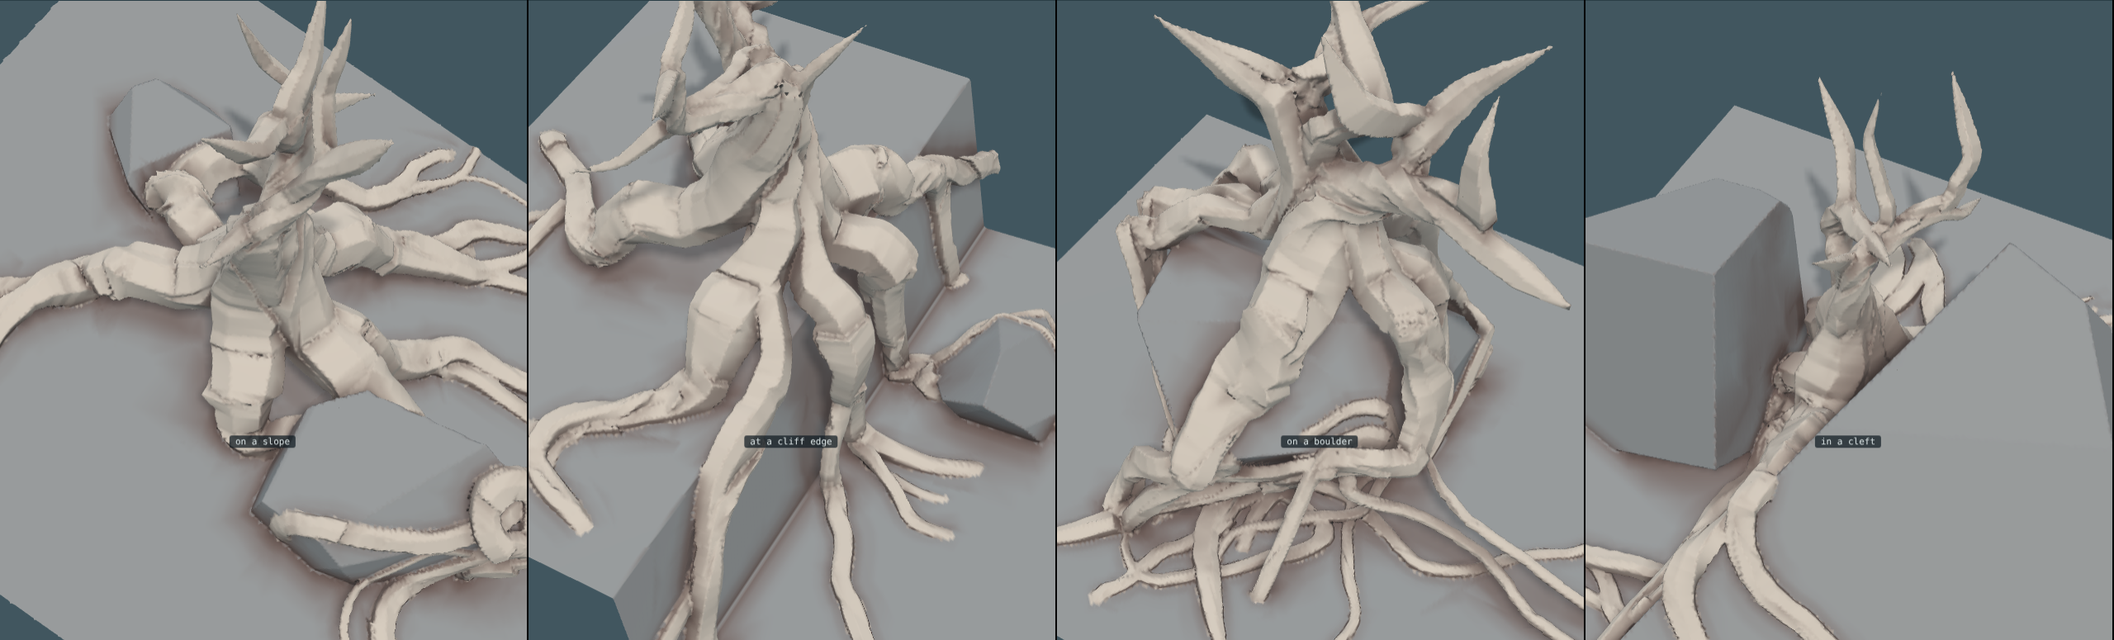
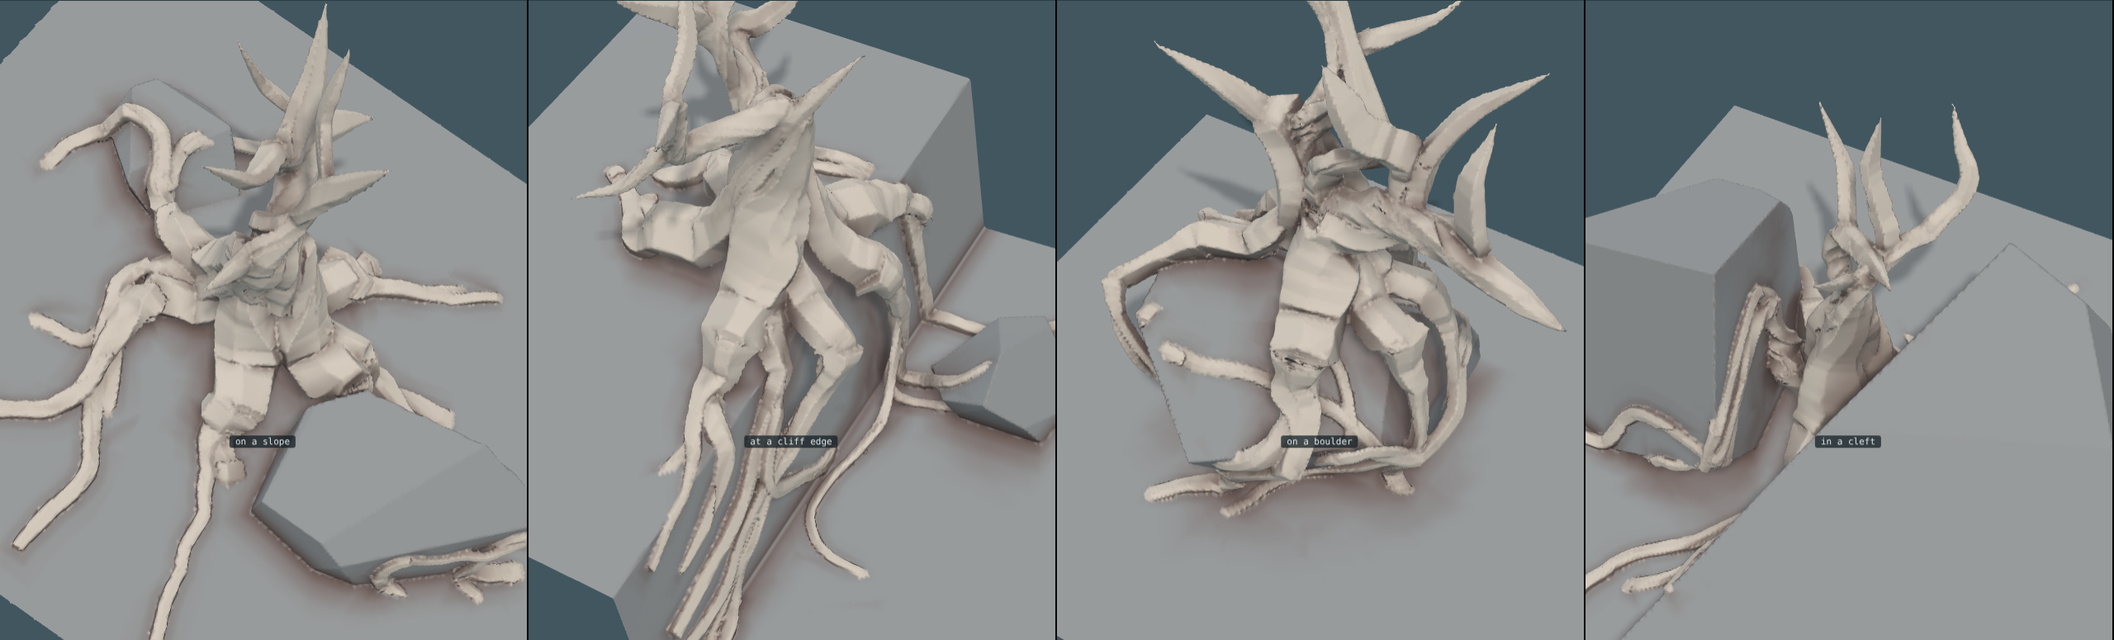
Run 021: the drawn wood made to add up at the foot; roots come down within a real distance, the trunk reaches the ground, and only a share of what it carries shows as surface root
Claude-Session: https://claude.ai/code/session_0192rgp75jGkttZXf7hEakip

Changed region(s): [[0.0, 0.0, 0.9375, 1.0], [0.0, 0.7742, 0.0312, 0.8671]]

diff --git a/trees.js b/trees.js
@@ -30,15 +30,17 @@
   function frames(P) { let N = null; return P.map((p, i) => { const T = unit([0, 1, 2].map((k) => P[Math.min(P.length - 1, i + 1)][k] - P[Math.max(0, i - 1)][k])); N = unit((N || [1, 0, 0.2]).map((v, k, A) => v - T[k] * dot(A, T))); return [T, N, cross(T, N)]; }); }
 
   function grow(recipe) {
-    const P = Object.assign({ strands: 8, fill: 0.75, uneven: 0.5, twist: 0.5, taut: 0.3, stiff: 0.05, hug: 0.15, bind: 0.004, roots: 0.6, wind: 1.1, mixed: false, lmax: 0, set: 0, swell: 1, feet: 0, lap: 0, ground: null, down: 0.6, crease: 0.5, snake: 1, air: 0.5, reach: 0.6, forks: 1, clear: 1, settle: 0, giving: 0.75, passes: 1500, ds: 0.035, seed: 1, trunk: [[0, 0.14, 0, 0.27], [0, 1.6, 0, 0.1]], limbs: [], orb: null }, recipe);
+    const P = Object.assign({ strands: 8, fill: 0.75, uneven: 0.5, twist: 0.5, taut: 0.3, stiff: 0.05, hug: 0.15, bind: 0.004, roots: 0.6, wind: 1.1, mixed: false, lmax: 0, set: 0, swell: 1, feet: 0, lap: 0, ground: null, down: 0.6, crease: 0.5, snake: 1, air: 0.18, reach: 0.6, forks: 1, dive: 0.12, grip: 0.62, clear: 1, settle: 0, giving: 0.75, passes: 1500, ds: 0.035, seed: 1, trunk: [[0, 0.14, 0, 0.27], [0, 1.6, 0, 0.1]], limbs: [], orb: null }, recipe);
     // The ground, if the tree is given one: any function of a place that is how far it is outside the ground (less than
     // nothing inside). Without one the ground is the level at height 0, as it always was. (A grown tree is always given one, level if nothing else, so that its roots are walked.)
     const G = P.ground, gradG = G ? (x, y, z) => { const e = 0.008; return unit([G(x + e, y, z) - G(x - e, y, z), G(x, y + e, z) - G(x, y - e, z), G(x, y, z + e) - G(x, y, z - e)]); } : null, rootPts = [];
     const r = rng(P.seed), n = P.strands, ds = P.ds, trunk = line(P.trunk, ds), nT = trunk.length, R0 = trunk[0][3], rho0 = R0 * Math.sqrt(P.fill / n), turn = (i) => P.twist * TAU * i / nT;
     // A root on ground. It is not laid, it is walked: from where it starts it goes out a step at a time over the
     // surface, and what it does on the way is the ground's doing as much as its own.
-    //   It comes down to the ground at once, within a fifth of its length, and then lies in it: a little sunk, more
-    //   in places and less in others, kept that height off the surface whatever the surface does. So it goes over
+    //   It comes down to the ground at once, within `dive` of where it starts (a short real distance, not a share of
+    //   its length: paced by its length a long root slides down a shallow ramp and holds the trunk up on legs), and
+    //   then lies in it: a little sunk, more in places and less in others, kept that height off the surface
+    //   whatever the surface does. So it goes over
     //   an edge and down a face and never through a corner or clear of the ground.
     //   It flows. Its heading has a curl that drifts and carries on, so it winds, and can come round on itself,
     //   never tighter than a couple of its own girths. And at each step, of three ways (on, a little left, a
@@ -46,15 +48,18 @@
     //   It may let go. Where the ground falls away in front of it, it tries leaving the surface: out and a little
     //   up, sagging as it goes. If that comes down on ground again within reach it goes that way, through the air,
     //   and takes hold where it lands. If not, it stays on the surface.
-    //   It keeps its girth. It does not fine down along its length (it divides instead, below); only a root that
-    //   does not go into the ground at its end runs out to a point there.
+    //   It keeps its girth along its length: it gets finer by dividing, not by tapering. But not all of what the
+    //   trunk carries comes out where it can be seen. Only `grip` of a strand's girth leaves as a surface root;
+    //   the rest goes straight down at the foot and is never drawn. So a root narrows from the trunk's own girth
+    //   to that over the first short stretch, which is the collar, and all the roots together are then well under
+    //   the trunk's section, as they must be. Only a root that does not go into the ground runs out to a point.
     // Going down a face or through the air counts little toward its length, so a root that leaves the level it
     // began on runs on until it has ground under it again.
-    const walk = G ? (p0, away, rho0, len, dives) => { const rx = [], rr = [], c0 = G(p0[0], p0[1], p0[2]), most = Math.round(len / ds) * 5, kmax = ds / (2.6 * Math.max(0.025, rho0)), wob = TAU * r(), wl = 0.25 + 0.3 * r();
+    const walk = G ? (p0, away, rho0, len, dives, collar) => { const rx = [], rr = [], c0 = G(p0[0], p0[1], p0[2]), most = Math.round(len / ds) * 5, kmax = ds / (2.6 * Math.max(0.025, rho0)), wob = TAU * r(), wl = 0.25 + 0.3 * r();
       let pos = p0, h = away, prog = 0, curl = 0, air = 0, gone = 0;
-      const girth = (g) => rho0 * (0.74 + 0.26 * (1 - g)) * (dives ? 1 : Math.pow(Math.min(1, (1 - g) / 0.22), 0.7) * 0.9 + 0.1);
+      const girth = (g, far) => rho0 * (collar ? P.grip + (1 - P.grip) * Math.pow(Math.max(0, 1 - far / (2 * P.dive)), 1.5) : 1) * (dives ? 1 : Math.pow(Math.min(1, (1 - g) / 0.22), 0.7) * 0.9 + 0.1);
       const room = (pr, own) => { if (Math.abs(pr[0]) > 0.97 || Math.abs(pr[2]) > 0.97) return 0; let near = 0.22; for (const q of rootPts) near = Math.min(near, H(pr[0] - q[0], pr[1] - q[1], pr[2] - q[2])); for (let e = 0; e < own; e++) near = Math.min(near, H(pr[0] - rx[e][0], pr[1] - rx[e][1], pr[2] - rx[e][2])); return near; };
-      for (let m = 1; m <= most && prog < len; m++) { const g = Math.min(1, prog / len), rad = girth(g), nn = gradG(pos[0], pos[1], pos[2]), hug = rad * (0.4 + 0.22 * Math.sin(wob + TAU * gone / wl)), want = c0 + (hug - c0) * sstep(0, 0.2, g) - (dives ? 0.3 * sstep(0.72, 1, g) : 0);
+      for (let m = 1; m <= most && prog < len; m++) { const g = Math.min(1, prog / len), rad = girth(g, gone), nn = gradG(pos[0], pos[1], pos[2]), hug = rad * (0.4 + 0.22 * Math.sin(wob + TAU * gone / wl)), want = c0 + (hug - c0) * sstep(0, P.dive, gone) - (dives ? 0.3 * sstep(0.72, 1, g) : 0);
         let tt = h.map((v, k) => v - nn[k] * dot(h, nn)); const dn = UP.map((v, k) => -(v - nn[k] * nn[1])), dl = H(dn[0], dn[1], dn[2]); if (H(tt[0], tt[1], tt[2]) < 0.2) tt = dl > 1e-6 ? dn : cross(nn, [1, 0, 0]); tt = unit(tt);
         curl = Math.max(-kmax, Math.min(kmax, curl * 0.9 + P.snake * 0.34 * kmax * (2 * r() - 1))); { const sd = cross(nn, tt); tt = unit(tt.map((v, k) => v * Math.cos(curl) + sd[k] * Math.sin(curl))); }
         const side = cross(nn, tt), out = unit([pos[0] - trunk[0][0], 0, pos[2] - trunk[0][2]]); let best = null;   // (out: away from the foot. A root goes somewhere; it does not come back under the tree.)
@@ -65,10 +70,11 @@
         if (may) for (const lift of [0.5, 0.2, 0.9]) { const d = unit(h.map((v, k) => v + nn[k] * lift)), pts = []; let ok = false;
           for (let t = ds; t < P.reach; t += ds) { const q = [pos[0] + d[0] * t, pos[1] + d[1] * t - 0.55 * t * t, pos[2] + d[2] * t], gq = G(q[0], q[1], q[2]); pts.push(q); if (t > 0.16 && gq <= rad * 0.6) { ok = true; break; } if ((t > 0.07 && gq < rad * 0.9 && t <= 0.16) || Math.abs(q[0]) > 1 || Math.abs(q[2]) > 1 || q[1] < -0.05) break; }
           if (!ok || pts.length < 5 || room(pts[pts.length - 1], rx.length - 12) < 0.07) continue;
-          for (const q of pts) { rx.push(q); rr.push(girth(Math.min(1, prog / len))); prog += ds * 0.3; gone += ds; } air++; flew = true;
+          for (const q of pts) { rx.push(q); rr.push(girth(Math.min(1, prog / len), gone)); prog += ds * 0.3; gone += ds; } air++; flew = true;
           const e = pts.length - 1; h = unit(pts[e].map((v, k) => v - pts[e - 1][k])); pos = pts[e]; break; }
         if (flew) continue;
         for (let it = 0; it < 3; it++) { const gn = gradG(nx[0], nx[1], nx[2]), gv = G(nx[0], nx[1], nx[2]); nx = nx.map((v, k) => v + gn[k] * (want - gv)); }
+        if (Math.abs(nx[0]) > 0.92 || Math.abs(nx[2]) > 0.92) break;   // a root stays on the ground it was given
         const steep = Math.abs(gradG(nx[0], nx[1], nx[2])[1]) < 0.6; prog += ds * (steep ? 0.3 : 1); gone += ds; pos = nx; rx.push(nx); rr.push(rad); }
       return { rx, rr }; } : null;
     // every strand has a place in the bundle's section, and a girth of its own (mixed: most thin, a few heavy)
@@ -120,7 +126,7 @@
       if (!G) {
         for (let m = 1; m <= Kr; m++) { const g = m / Kr, t = bend * g * g, dir = [away[0] * Math.cos(t) - away[2] * Math.sin(t), 0, away[0] * Math.sin(t) + away[2] * Math.cos(t)], rad = rho[0] * (dives ? 0.5 + 0.5 * (1 - g) : 0.2 + 0.8 * Math.pow(1 - g, 0.8));
           q = [q[0] + dir[0] * ds, p0[1] + (rad * 0.6 - p0[1]) * sstep(0, 0.8, g) - (dives ? 0.35 * sstep(0.6, 1, g) : 0), q[2] + dir[2] * ds]; rx.push(q); rr.push(rad); rg.push(q); }
-      } else { const w = walk(p0, away, rho[0], len, dives); for (let e = 0; e < w.rx.length; e++) { rx.push(w.rx[e]); rg.push(w.rx[e]); rr.push(w.rr[e]); rootPts.push(w.rx[e]); } Kr = rx.length; }
+      } else { const w = walk(p0, away, rho[0], len, dives, 1); for (let e = 0; e < w.rx.length; e++) { rx.push(w.rx[e]); rg.push(w.rx[e]); rr.push(w.rr[e]); rootPts.push(w.rx[e]); } Kr = rx.length; }
       s.root = Kr; s.K = Kr + X.length; const all = rx.reverse().concat(X), goals = rg.reverse().concat(goal);
       s.X = Float64Array.from(all.flat()); s.goal = Float64Array.from(goals.flat()); s.rho = Float64Array.from(rr.reverse().concat(rho)); s.hold = Float64Array.from(Array.from({ length: Kr }, (_, k) => (k < Kr * 0.45 ? 0.2 : 0)).concat(hold));   // anchored at the far end of its root, and nowhere else
       s.limbAt = fi; s.bend = P.stiff * Math.min(1.6, s.fat * s.fat);
@@ -151,7 +157,8 @@
     if (G && P.forks) { const part = (pi, depth) => { const par = S[pi], n = depth ? (r() < 0.35 * P.forks ? 1 : 0) : 1 + (r() < 0.45 * P.forks ? 1 : 0); let u = 0.15 + 0.2 * r();
         for (let e = 0; e < n; e++, u += 0.22 + 0.2 * r()) { if (u > 0.75) break; const k = Math.round((1 - u) * par.root); if (k < 8 || k > par.root - 2) continue;
           const pos = [par.X[k * 3], par.X[k * 3 + 1], par.X[k * 3 + 2]], d = unit([par.X[(k - 2) * 3] - pos[0], par.X[(k - 2) * 3 + 1] - pos[1], par.X[(k - 2) * 3 + 2] - pos[2]]), nn = gradG(pos[0], pos[1], pos[2]), sd = cross(nn, d), a = (r() < 0.5 ? -1 : 1) * (0.4 + 0.4 * r());
-          const dir = unit(d.map((v, c) => v * Math.cos(a) + sd[c] * Math.sin(a))), share = 0.3 + 0.22 * r(), rb = par.rho[k] * Math.sqrt(share), w = walk(pos, dir, rb, Math.max(0.25, k * ds * (0.7 + 0.6 * r())), r() < 0.75); if (w.rx.length < 6) continue;
+          const dir = unit(d.map((v, c) => v * Math.cos(a) + sd[c] * Math.sin(a))), share = 0.34 + 0.24 * r(), rb = par.rho[k] * Math.sqrt(share);
+          if (rb < 0.012) continue; const w = walk(pos, dir, rb, Math.max(0.2, k * ds * (0.3 + 0.3 * r())), r() < 0.75, 0); if (w.rx.length < 6) continue;   // (a part of a root runs a good deal shorter than what is left of the root it came off)
           for (let j = 0; j < k; j++) par.rho[j] *= 1 + (Math.sqrt(1 - share) - 1) * sstep(k, k - 4, j);
           const pts = w.rx.slice().reverse().concat([pos]), K = pts.length, X = Float64Array.from(pts.flat()); for (const q of w.rx) rootPts.push(q);
           S.push({ X, goal: Float64Array.from(X), rho: Float64Array.from(w.rr.slice().reverse().concat([rb])), hold: Float64Array.from({ length: K }, (_, j) => (j < K * 0.45 ? 0.2 : 0)), root: K, K, limb: -1, limbAt: -1, a: par.a, b: par.b, fat: par.fat * Math.sqrt(share), bend: Math.min(par.bend, 0.055), give: 1, snapped: false, rootOf: pi, po: k });
@@ -393,8 +400,8 @@
       tips++; return { path: pts, limbs: kids, total: gone };
     };
     // where it stands: on level ground at the middle, or at its `site` on the ground it is given, starting a little way out of the slope
-    const R0 = Q.foot; let p0 = [0, 0.22, 0], lean = [0, 0, 0];
-    if (Gq) { let y = 1.95; while (y > -0.05 && Gq(Q.site[0], y, Q.site[1]) > 0) y -= 0.01; const e = 0.01, gn = unit([Gq(Q.site[0] + e, y, Q.site[1]) - Gq(Q.site[0] - e, y, Q.site[1]), Gq(Q.site[0], y + e, Q.site[1]) - Gq(Q.site[0], y - e, Q.site[1]), Gq(Q.site[0], y, Q.site[1] + e) - Gq(Q.site[0], y, Q.site[1] - e)]); p0 = [Q.site[0], y + 0.22 * R0 / 0.2, Q.site[1]]; lean = [0.5 * gn[0], 0, 0.5 * gn[2]]; }
+    const R0 = Q.foot; let p0 = [0, 0.6 * R0, 0], lean = [0, 0, 0];
+    if (Gq) { let y = 1.95; while (y > -0.05 && Gq(Q.site[0], y, Q.site[1]) > 0) y -= 0.01; const e = 0.01, gn = unit([Gq(Q.site[0] + e, y, Q.site[1]) - Gq(Q.site[0] - e, y, Q.site[1]), Gq(Q.site[0], y + e, Q.site[1]) - Gq(Q.site[0], y - e, Q.site[1]), Gq(Q.site[0], y, Q.site[1] + e) - Gq(Q.site[0], y, Q.site[1] - e)]); p0 = [Q.site[0], y + 0.6 * R0, Q.site[1]]; lean = [0.5 * gn[0], 0, 0.5 * gn[2]]; }
     const d0 = unit([lean[0] + 0.25 * (r() - 0.5), 1, lean[2] + 0.25 * (r() - 0.5)]), top = shoot(p0, d0, n, Q.tall, 0, true);
     const tidy = (sh, par) => sh.limbs.map((k) => { const o = { at: Math.min(0.97, k.s / sh.total), count: k.count, path: k.path, from: k.from, dir: k.dir, s: k.s, host: sh, par, own: k, depth: par ? par.depth + 1 : 1 }; o.limbs = tidy(k, o); return o; });
     // Snapping. `snap` of the side shoots break off close to where they left: ones carrying at least `least` strands and

diff --git a/runs/021-girth/draw.js b/runs/021-girth/draw.js
@@ -1,0 +1,41 @@
+// Does the wood add up? Two cuts of the same tree, to scale: the trunk where it is thickest, and the roots where
+// they leave the foot. (A root that parted off another is inside its parent's girth already and is not counted
+// again; it is drawn hollow where it parts, to show where that wood goes.) The red ring is the same area as one
+// disc, so the two can be told apart by eye. Under them, how much root crosses a ring at each distance out.
+//   node runs/021-girth/draw.js out.svg '[{"label": "...", "rule": {...}, "grow": {...}}, ...]'
+const fs = require('fs'), Trees = require('../../trees.js'), H = Math.hypot, PI = Math.PI;
+const [out, list] = process.argv.slice(2), cols = JSON.parse(list), W = 300, sc = 250, ink = '#3b3230';
+let svg = ''; const notes = [];
+cols.forEach((col, ci) => {
+  const g = Trees.sprout(col.rule), t = Trees.grow(Object.assign({ seed: col.rule.seed || 1 }, g, col.grow || {})), x0 = ci * W + W / 2;
+  let best = 0, bestY = 0;
+  for (let y = 0.2; y < 1.1; y += 0.02) { let a = 0;
+    for (const s of t.strands) { if (s.rootOf >= 0) continue; for (let k = s.root; k < s.K - 1; k++) if ((s.X[k * 3 + 1] - y) * (s.X[k * 3 + 4] - y) <= 0) a += PI * s.rho[k] ** 2; }
+    if (a > best) { best = a; bestY = y; } }
+  const disc = (cx, cy, r, fill, st) => `<circle cx="${cx.toFixed(1)}" cy="${cy.toFixed(1)}" r="${(r * sc).toFixed(1)}" fill="${fill}" stroke="${st || ink}" stroke-width="0.7"/>`;
+  let o = '', trunkA = 0, rootA = 0, nP = 0, nF = 0;
+  for (const s of t.strands) { if (s.rootOf >= 0) continue;
+    for (let k = s.root; k < s.K - 1; k++) if ((s.X[k * 3 + 1] - bestY) * (s.X[k * 3 + 4] - bestY) <= 0) { trunkA += PI * s.rho[k] ** 2; o += disc(x0 + s.X[k * 3] * sc, 130 + s.X[k * 3 + 2] * sc, s.rho[k], '#cdbfae'); } }
+  for (const s of t.strands) { if (!s.root) continue; const k = s.rootOf >= 0 ? s.K - 1 : s.root - 1;
+    if (s.rootOf >= 0) { nF++; o += disc(x0 + s.X[k * 3] * sc, 350 + s.X[k * 3 + 2] * sc, s.rho[k], 'none', '#b98f6e'); }
+    else { nP++; rootA += PI * s.rho[k] ** 2; o += disc(x0 + s.X[k * 3] * sc, 350 + s.X[k * 3 + 2] * sc, s.rho[k], '#b98f6e'); } }
+  for (const [cy, a] of [[130, trunkA], [350, rootA]]) o += `<circle cx="${x0 + 108}" cy="${cy}" r="${(Math.sqrt(a / PI) * sc).toFixed(1)}" fill="none" stroke="#c0392b" stroke-width="1.6"/>`;
+  const ring = [];
+  for (let R = 0.1; R <= 0.8; R += 0.05) { let a = 0;
+    for (const s of t.strands) { const top = (s.rootOf >= 0 ? s.K : s.root) - 1;
+      for (let k = 0; k < top; k++) { const r0 = H(s.X[k * 3], s.X[k * 3 + 2]), r1 = H(s.X[k * 3 + 3], s.X[k * 3 + 5]); if ((r0 - R) * (r1 - R) > 0) continue;
+        a += PI * s.rho[k] ** 2 * Math.min(1, Math.abs(r1 - r0) / (H(s.X[k * 3 + 3] - s.X[k * 3], s.X[k * 3 + 4] - s.X[k * 3 + 1], s.X[k * 3 + 5] - s.X[k * 3 + 2]) || 1e-9)); } }
+    ring.push([R, a / trunkA]); }
+  const gx = (i) => x0 - 120 + i * 240 / (ring.length - 1), gy = (v) => 560 - Math.min(1.2, v) * 110;
+  o += `<line x1="${x0 - 120}" y1="${gy(1)}" x2="${x0 + 120}" y2="${gy(1)}" stroke="#c0392b" stroke-width="1"/>`;
+  o += `<polyline fill="none" stroke="${ink}" stroke-width="1.6" points="${ring.map((q, i) => gx(i).toFixed(1) + ',' + gy(q[1]).toFixed(1)).join(' ')}"/>`;
+  const peak = Math.max(...ring.map((q) => q[1]));
+  svg += o + `<text x="${x0}" y="20" text-anchor="middle" font-size="13" fill="${ink}">${col.label}</text>`
+    + `<text x="${x0}" y="236" text-anchor="middle" font-size="11" fill="${ink}">trunk at its thickest (y=${bestY.toFixed(2)})</text>`
+    + `<text x="${x0}" y="456" text-anchor="middle" font-size="11" fill="${ink}">${nP} roots at the foot: ${(rootA / trunkA).toFixed(2)}x the trunk</text>`
+    + `<text x="${x0}" y="474" text-anchor="middle" font-size="11" fill="${ink}">(+${nF} that part off them, hollow)</text>`
+    + `<text x="${x0}" y="590" text-anchor="middle" font-size="11" fill="${ink}">crossing a ring 0.1 to 0.8 out: at most ${peak.toFixed(2)}x</text>`;
+  notes.push(`${col.label}: trunk ${trunkA.toFixed(4)} at y=${bestY.toFixed(2)}; ${nP} roots at the foot ${rootA.toFixed(4)} = ${(rootA / trunkA).toFixed(2)}x, parting into ${nF} more; most crossing a ring ${peak.toFixed(2)}x`);
+});
+fs.writeFileSync(out, `<svg xmlns="http://www.w3.org/2000/svg" width="${cols.length * W}" height="610" font-family="ui-monospace, Menlo, monospace"><rect width="100%" height="100%" fill="#f6f2ea"/>${svg}</svg>`);
+fs.writeFileSync(out.replace(/\.svg$/, '.txt'), notes.join('\n') + '\n'); console.log(notes.join('\n'));

diff --git a/sketch/page7.js b/sketch/page7.js
@@ -37,7 +37,16 @@
     // strand is drawn wide enough to run into its neighbours and deep enough to reach the middle of the wood
     // round it. Where it has torn from another, or passes an orb, it is drawn at its own girth, so that the only
     // gaps are tears. (mass: 0 turns this off.)
+    // How far in there is wood to meet: to the far side of the nearest other strand on that side. Where neighbours
+    // are close they reach each other and the gap between them fills into one body; where a strand has parted from
+    // the rest, as at the foot where the roots leave, there is nothing to meet and it keeps its own girth. (Before,
+    // a strand reached toward the middle of its bundle however far that was, so the foot, where the bundle is
+    // widest, swelled to three times the wood that is in it.)
     const mass = recipe.mass === undefined ? 1 : recipe.mass;
+    const meet = (p, n, rho, qi, cap) => { let best = Infinity;
+      for (const o of pts) { if (o[4] === qi) continue; const vx = o[0] - p[0], vy = o[1] - p[1], vz = o[2] - p[2], al = vx * n[0] + vy * n[1] + vz * n[2];
+        if (al <= 0 || al > cap || al >= best) continue; const across = Math.sqrt(Math.max(0, vx * vx + vy * vy + vz * vz - al * al)); if (across > rho + o[3]) continue; best = al + o[3] * 0.7; }
+      return best === Infinity ? 0.95 * rho : Math.min(cap, best); };
     // Elbows. A strand does not keep one width round a bend: the inside of the bend fills in, so it is broadest
     // at the elbow and its inner edge goes round on an easier curve than its middle. The sharper the bend the
     // more it fills, eased in before the corner and out after it, and never further than there is free room
@@ -69,7 +78,7 @@
         const A = at(s, k0), B = at(s, k1), C = [], O = [], W = [], Hh = [], D = [];
         for (let i = k0; i <= k1; i++) { const q = (i - k0) / n, base = at(s, i), rho = s.rho[i], off = [0, 1, 2].map((j) => A[j] + (B[j] - A[j]) * q - base[j]), far = H(off[0], off[1], off[2]) || 1e-9, stay = Math.min(stiff, 0.35 * rho / far);
           const no = nearOrb(base), tornHere = s.gap && s.inner && s.inner[i] ? Math.min(1, s.gap[i] / (1.2 * rho)) : 0, alone = 1 - sstep(0.9, 2.0, s.far[i] / rho), free = s.thread ? 1 : Math.max(no, tornHere, alone, 1 - sstep(s.root, s.root + 8, i)), body = mass * (1 - free),   // a strand running alone is a limb, not part of a mass
-          toMid = Math.max(0.95 * rho, Math.min(s.far[i] * 0.9, (s.limb >= 0 ? 1.5 : 3.2) * rho));   // a limb is thin: reaching for its middle must not come out of its other side
+          toMid = body > 0.01 ? Math.max(0.95 * rho, meet(base, [-s.O[i][0], -s.O[i][1], -s.O[i][2]], rho, si, Math.min(s.far[i] * 0.9, (s.limb >= 0 ? 1.5 : 3.2) * rho))) : 0.95 * rho;   // a limb is thin: reaching for its middle must not come out of its other side
           // (so does a strand that divided off another, where it comes out of it)
           // (a torn part leaves and rejoins what it tore from from underneath: laid level with it there, the two surfaces run through each other and come out pitted)
           const lift = (first ? (fine || s.stem >= 0 ? -0.9 * (1 - sstep(0, 0.35, q)) : 0) : -0.28 * (1 - sstep(0, 0.3, q))) + proud * q * q - ((fine || s.rootOf >= 0) && last ? 0.9 * sstep(0.65, 1, q) : 0), front = ending === 'point' ? Math.pow(Math.min(1, (1 - q) / 0.3), 0.7) : 1, back = first && !(s.stem >= 0) ? 1 : 0.7 + 0.3 * sstep(0, 0.3, q), w = Math.min(wide, 1.05 + (wide - 1.05) * (1 - no)) + body * (massW - 1.05);

diff --git a/LOG.md b/LOG.md
@@ -2995,3 +2995,76 @@ Wrong, or not there:
   still does not lean or sweep for the ground it is on.
 - Fine roots are smooth; the wood's flat-faced pieces do not show at that
   girth.
+
+## Run 021: the wood has to add up
+
+Said: the combined cross-section of the roots cannot exceed the
+cross-section of the thickest part of the trunk.
+
+The kernel already obeyed that and had since run 017: a root's girth is
+its family's combined section, so the roots at the foot summed to 0.90 of
+the trunk's. It was the drawing that did not. Measured against what is
+counted (`runs/021-girth/draw.js`, and cuts through the mesh itself):
+
+      up the clean trunk   drawn / counted  0.9 to 1.2   honest
+      at the foot                           2.5 to 3.9   not
+
+So the fault was at the foot, and in the picture, not in the arithmetic.
+Three things were wrong, found by switching parts off one at a time and
+by printing a plain map of a horizontal cut. (Switching off bark, shell,
+slivers, elbows, mass and the chaining changed almost nothing: it was the
+bands themselves, which is what sent me to the map.)
+
+- **The roots held the trunk up on legs.** A root came down to the ground
+  "within a fifth of its length", but its length counted progress, not
+  distance, and progress is discounted on a descent. So a long root slid
+  down a shallow ramp: it left the trunk's base and ran out nearly level
+  for 0.1 to 0.25 before dropping. Eight of those at full girth, splayed,
+  is the whole flare. A cut at that height sliced them lengthwise, which
+  is why the map showed lobes of wood with no strand anywhere near them.
+  Now the descent is paced by real distance (`dive`, 0.12).
+- **The trunk did not reach the ground.** It began a fifth of its own
+  width up, with only roots bridging the gap, so a cut through the foot
+  showed air under the middle. Now it begins 0.6 of its foot radius up:
+  the collar is short and the wood is continuous into the ground.
+- **Every root carried the whole of what its family carries.** Conserved,
+  but all of it above ground and spread wide, where the trunk's share of
+  it is packed into one compact body. Area is conserved; extent is not,
+  and extent is what the eye reads as girth. So: not all of what the
+  trunk carries comes out where it can be seen. `grip` (0.62 of girth,
+  0.38 of section) leaves as surface root; the rest goes straight down at
+  the foot and is never drawn. A root narrows to that over the first
+  short stretch, which is the collar.
+
+Also changed, though it turned out to be small: a strand reaching toward
+the middle of its bundle used to reach as far as the middle was, so at
+the foot, where the bundle is widest, it reached furthest. It now reaches
+only as far as there is a neighbour to meet. Where strands have parted,
+as at the foot, there is nothing to meet and each keeps its own girth.
+
+`runs/021-girth/girth.png`: the trunk's section and the roots' section
+drawn to the same scale, and how much root crosses a ring at each
+distance out. The four approved trees of page 7 come out unchanged to the
+last digit.
+
+      roots crossing a ring, at most    0.27 to 0.38 of the trunk
+      with grip turned off (1.0)        0.55
+
+Pictures: `sketch/page9.png`, `-foot`, `-cut` (level ground, and a cut
+through the foot, which is now solid wood from trunk into root);
+`sketch/page11.png`, `-other-side`, `-from-above` (the four sites).
+Withdrawn: `sketch/page9-foot-on-legs-withdrawn.png`,
+`sketch/page11-heavy-roots-withdrawn.png`.
+
+Surprised me: switching off every layer of the surface changed the foot
+by two per cent. I had assumed the extra wood was something laid on, and
+spent three measurements looking for it there. The map of the cut found
+it in one look. A picture of the thing beat four numbers about it, which
+is what the brief says and what I did not do first.
+
+Wrong, or not there:
+- A few roots still arc through the air in smooth even loops. They read
+  as wire, not wood.
+- Fine roots are smooth: the flat-faced pieces do not show at that girth.
+- Roots run to the edge of the ground they are given and stop there.
+- `grip` is a number I chose by eye at 0.62. Nothing derives it.
